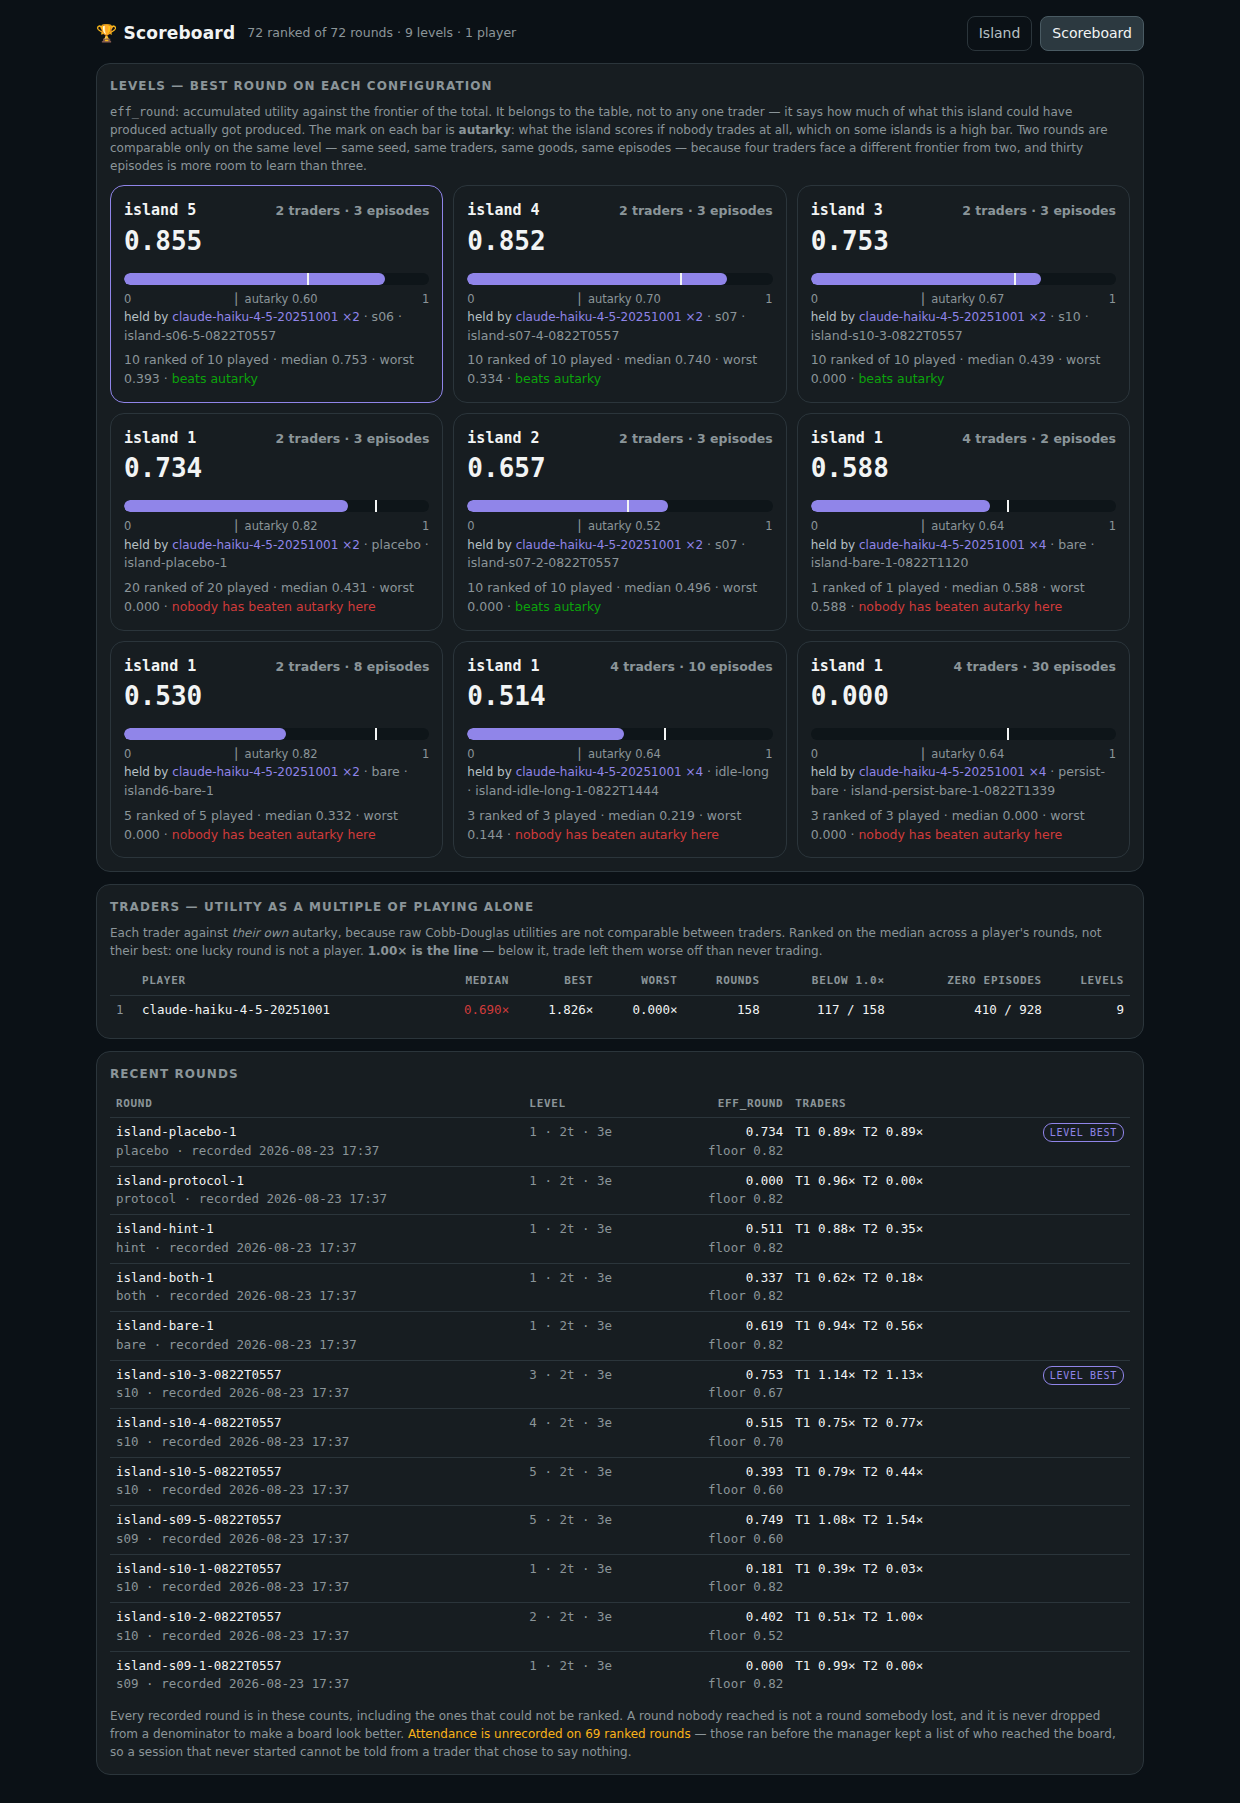
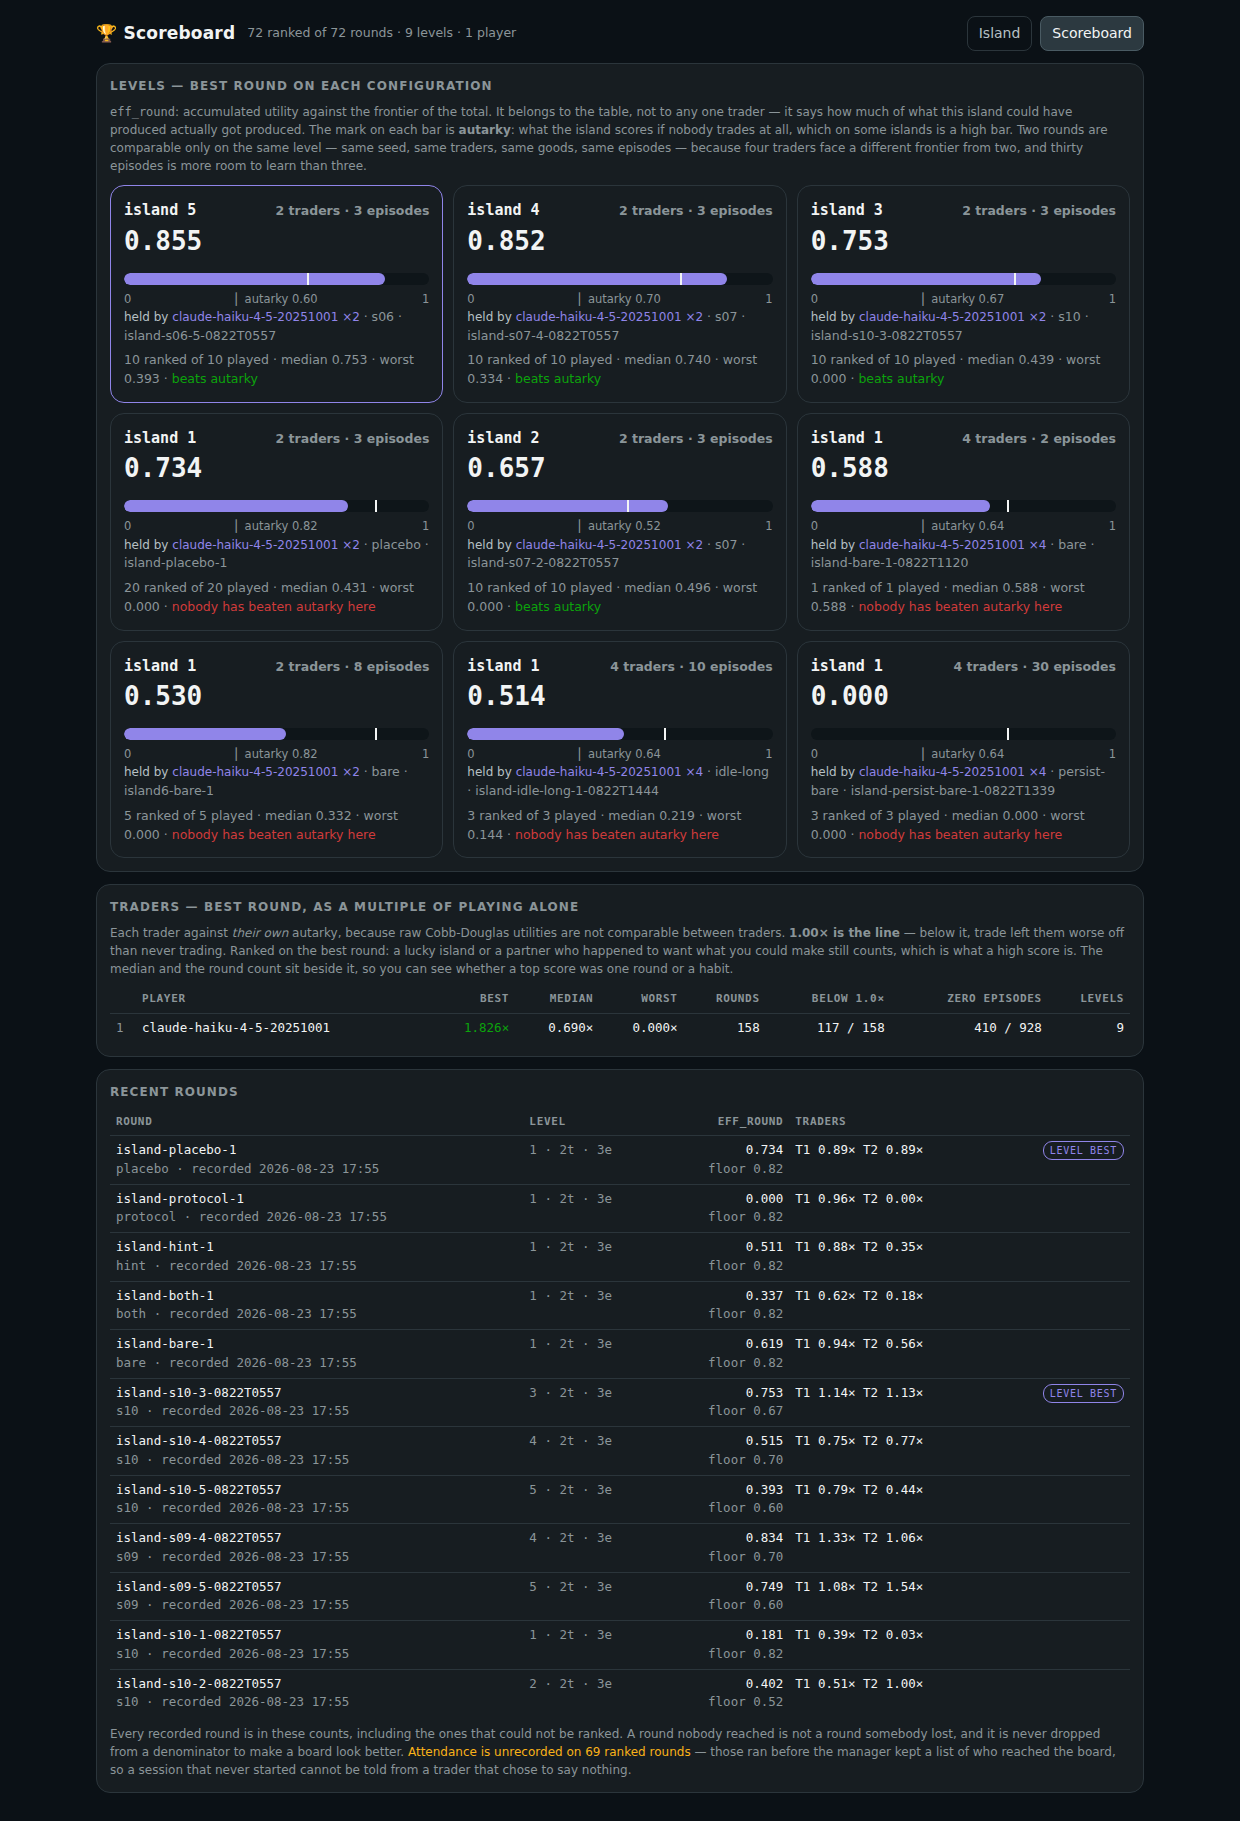
005 viewer: rank a trader on their best round, not their median
Luck is fine in a game. A lucky island, or a partner who happened to want
what you could make, still counts -- that is what a high score is, and a
board that averages it away is a statistics table wearing a trophy. The
median, the worst and the round count sit beside the best, so a top score
that was one round is visible as one.

The level board already ranked on the best round; this makes the trader
board agree with it.

It also makes farming cheaper -- one arranged round with a sacrificial
partner is now enough -- so the rule about who may sit at a ranked table
matters more, not less. That still belongs with the joining mechanics, and
the ledger keeps every player in every round so the rule can be applied to
what is already there.

Changing the ranking exposed the same trap the board digest fell into: the
derived boards were keyed on the ledger alone, so a rule that changes while
the record does not would have served the old order forever. They are now
keyed on the ledger and on the version of the rule that read it.

Claude-Session: https://claude.ai/code/session_016FsENK76gHvqgN2izcxVah

diff --git a/experiments/005-deliberation-protocol/viewer/web/scores.html b/experiments/005-deliberation-protocol/viewer/web/scores.html
@@ -66,13 +66,14 @@ td.id { font-family: ui-monospace, SFMono-Regular, Menlo, Consolas, monospace;
   </div>
 
   <div class="card">
-    <h2>Traders — utility as a multiple of playing alone</h2>
+    <h2>Traders — best round, as a multiple of playing alone</h2>
     <div class="note" style="margin:0 0 8px">
       Each trader against <em>their own</em> autarky, because raw Cobb-Douglas
-      utilities are not comparable between traders. Ranked on the median across
-      a player's rounds, not their best: one lucky round is not a player.
-      <strong>1.00× is the line</strong> — below it, trade left them worse off than
-      never trading.
+      utilities are not comparable between traders. <strong>1.00× is the line</strong>
+      — below it, trade left them worse off than never trading. Ranked on the best
+      round: a lucky island or a partner who happened to want what you could make
+      still counts, which is what a high score is. The median and the round count
+      sit beside it, so you can see whether a top score was one round or a habit.
     </div>
     <table id="traders"></table>
   </div>
@@ -142,14 +143,14 @@ function draw(data) {
     </div>`).join("") : `<div class="empty">no ranked round yet</div>`;
 
   $("traders").innerHTML = `
-    <tr><th class="rank"></th><th class="left">player</th><th>median</th><th>best</th><th>worst</th>
+    <tr><th class="rank"></th><th class="left">player</th><th>best</th><th>median</th><th>worst</th>
       <th>rounds</th><th>below 1.0×</th><th>zero episodes</th><th>levels</th></tr>` +
     (data.traders.length ? data.traders.map((p, n) => `
       <tr>
         <td class="rank">${n + 1}</td>
         <td class="id">${p.id}</td>
-        <td class="${p.median >= 1 ? "good" : "bad"}">${p.median.toFixed(3)}×</td>
-        <td>${p.best.toFixed(3)}×</td>
+        <td class="${p.best >= 1 ? "good" : "bad"}">${p.best.toFixed(3)}×</td>
+        <td>${p.median.toFixed(3)}×</td>
         <td>${p.worst.toFixed(3)}×</td>
         <td>${p.rounds}</td>
         <td>${p.below_autarky} / ${p.rounds}</td>

diff --git a/experiments/005-deliberation-protocol/viewer/scores.py b/experiments/005-deliberation-protocol/viewer/scores.py
@@ -77,6 +77,12 @@ INDEX = "index.json"
 #: difference has to be visible.
 SCHEMA = 1
 
+#: How the boards are computed. The cache is keyed on the ledger *and* on this,
+#: because a ranking rule that changes while the record does not is exactly the
+#: case where a cache keyed only on the record serves the old order forever.
+#: Bump it when `boards` changes what it produces.
+BOARDS_V = 2
+
 #: The recorded score and a freshly computed one will not match to the last bit
 #: -- they are the same arithmetic on the same numbers, so this is float noise
 #: and nothing else. A gap above this means the record and the seed disagree
@@ -304,7 +310,7 @@ def read_boards(path: Path = LEDGER) -> dict:
     if cache.is_file():
         try:
             held = json.loads(cache.read_text())
-            if held.get("stamp") == current:
+            if held.get("stamp") == current and held.get("boards_v") == BOARDS_V:
                 return held["boards"]
         except (ValueError, KeyError):
             pass                      # a damaged cache is rebuilt, not trusted
@@ -313,7 +319,7 @@ def read_boards(path: Path = LEDGER) -> dict:
 
 def write_boards(path: Path = LEDGER) -> dict:
     rows = load(path)
-    held = {"stamp": stamp(path),
+    held = {"stamp": stamp(path), "boards_v": BOARDS_V,
             "built_at": datetime.now(timezone.utc).isoformat(timespec="seconds"),
             "boards": boards(rows)}
     path.parent.mkdir(parents=True, exist_ok=True)
@@ -463,8 +469,11 @@ def boards(rows: list[dict]) -> dict:
 
     trader_board = []
     for row in players.values():
-        # The median, not the best: one lucky round is not a player, and a board
-        # topped by a single outlier is a board that rewards playing often.
+        # The best round holds the place. A lucky island, a partner who happened
+        # to want what you could make -- that is what a high score is, and a
+        # board that averages it away is a statistics table wearing a trophy.
+        # The median and the round count sit beside it, so anybody can see
+        # whether a top score was one round or a habit.
         trader_board.append({
             "id": row["id"],
             "median": round(statistics.median(row["ratios"]), 4),
@@ -476,7 +485,7 @@ def boards(rows: list[dict]) -> dict:
             "agent_episodes": row["agent_episodes"],
             "levels": len(row["seeds"]),
         })
-    trader_board.sort(key=lambda x: (-x["median"], -x["rounds"]))
+    trader_board.sort(key=lambda x: (-x["best"], -x["median"], -x["rounds"]))
 
     return {
         "islands": island_board,
@@ -512,11 +521,11 @@ def table(data: dict) -> str:
         out.append(f"  {row['best']:>6.3f}  {row['median']:>6.3f}  {row['floor']:>6.3f}  "
                    f"{row['ranked']:>3}/{row['attempts']:<3}  {row['label']}")
 
-    out.append("\nTRADERS — utility as a multiple of playing alone (median across rounds)")
-    out.append(f"  {'median':>7}  {'best':>6}  {'worst':>6}  {'rounds':>6}  "
+    out.append("\nTRADERS — best round, as a multiple of playing alone")
+    out.append(f"  {'best':>7}  {'median':>6}  {'worst':>6}  {'rounds':>6}  "
                f"{'<1.0x':>6}  {'zeros':>9}  id")
     for row in data["traders"]:
-        out.append(f"  {row['median']:>7.3f}  {row['best']:>6.3f}  {row['worst']:>6.3f}  "
+        out.append(f"  {row['best']:>7.3f}  {row['median']:>6.3f}  {row['worst']:>6.3f}  "
                    f"{row['rounds']:>6}  {row['below_autarky']:>6}  "
                    f"{row['zero_episodes']:>4}/{row['agent_episodes']:<4}  {row['id']}")
     return "\n".join(out)

diff --git a/experiments/005-deliberation-protocol/viewer/tests/test_scores.py b/experiments/005-deliberation-protocol/viewer/tests/test_scores.py
@@ -150,7 +150,7 @@ def test_denominators_keep_what_the_ranking_drops(tmp_path):
     assert island["round_id"] != newest["round_id"]
 
 
-def test_a_player_is_ranked_on_the_median_not_the_best(tmp_path):
+def test_a_player_is_ranked_on_their_best_round(tmp_path):
     ledger = tmp_path / "ledger.jsonl"
     for path in RECORDS:
         scores.ingest(path, ledger=ledger)
@@ -166,9 +166,12 @@ def test_a_player_is_ranked_on_the_median_not_the_best(tmp_path):
                                   if any(p["id"] == t["id"] for p in r["players"]))
         assert t["worst"] <= t["median"] <= t["best"]
         assert 0 <= t["below_autarky"] <= t["rounds"]
-    # Sorted by median, and the denominator travels with the number.
-    medians = [t["median"] for t in data["traders"]]
-    assert medians == sorted(medians, reverse=True)
+    # Sorted by the best round -- luck counts -- with the median and the round
+    # count travelling beside it so a one-round top score is visible as one.
+    bests = [t["best"] for t in data["traders"]]
+    assert bests == sorted(bests, reverse=True)
+    for t in data["traders"]:
+        assert t["rounds"] >= 1 and t["median"] is not None
 
 
 # --- keeping many rounds affordable -----------------------------------------
@@ -192,6 +195,22 @@ def test_the_boards_are_read_from_a_cache_and_the_cache_follows_the_record(tmp_p
     # And the cache is derived, never authoritative: damaged, it is rebuilt.
     cache.write_text("{ not json")
     assert scores.read_boards(ledger)["totals"] == second["totals"]
+
+
+def test_a_cache_built_by_an_older_ranking_is_ignored(tmp_path):
+    """The record can be unchanged while the rule for reading it is not.
+
+    A cache keyed only on the ledger serves the old order forever after a
+    ranking change, which is the same trap the board digest fell into.
+    """
+    ledger = tmp_path / "ledger.jsonl"
+    scores.ingest(RECORDS[0], ledger=ledger)
+    cache = ledger.with_name(scores.CACHE)
+    held = json.loads(cache.read_text())
+    held["boards"]["totals"]["rounds"] = 9999
+    held["boards_v"] = scores.BOARDS_V - 1     # same ledger, older rule
+    cache.write_text(json.dumps(held))
+    assert scores.read_boards(ledger)["totals"]["rounds"] != 9999
 
 
 def test_a_stale_cache_is_ignored(tmp_path):

diff --git a/experiments/005-deliberation-protocol/viewer/README.md b/experiments/005-deliberation-protocol/viewer/README.md
@@ -130,9 +130,11 @@ seed, with the same number of traders, the same goods and the same number of
 episodes — four traders face a different frontier from two, and thirty episodes
 is more room to learn than three.
 
-**A player is ranked on the median of their rounds, not their best.** One lucky
-round is not a player, and a board topped by a single outlier rewards playing
-often.
+**A player is ranked on their best round.** A lucky island, or a partner who
+happened to want what you could make, still counts — that is what a high score
+is, and a board that averages it away is a statistics table wearing a trophy.
+The median and the round count sit beside it, so a top score that was one round
+is visible as one.
 
 ### What the ledger will not do
 
@@ -155,6 +157,10 @@ often.
   contents, every stored digest became unreproducible at once, and an
   unversioned ledger reported that as ten boards having changed. A row built by
   an older version is re-ingestable, and `--verify` says so instead.
+- **Serve a ranking nobody asked for any more.** The derived boards are keyed on
+  the ledger *and* on the version of the rule that read it, because a ranking
+  that changes while the record does not is exactly when a cache keyed only on
+  the record keeps answering with the old order.
 
 ### Keeping many rounds
 
@@ -207,10 +213,11 @@ binds a Switchboard peer to a trader name — never claimed on the board, becaus
 a name an agent types is a self-report.
 
 And the trader board is farmable by anyone running both seats: a partner who
-gives everything away goes to zero and inflates the other's ratio. The fix is a
-rule about who may sit at a ranked table, which belongs with the joining
-mechanics; until then the ledger records every player in a round so such a rule
-can be applied retrospectively.
+gives everything away goes to zero and inflates the other's ratio. Ranking on
+the best round makes that cheaper — one arranged round is enough — so the rule
+about who may sit at a *ranked* table matters more, not less. It belongs with
+the joining mechanics; until then the ledger records every player in every round
+so such a rule can be applied to what is already there.
 
 ## The sidecar
 
